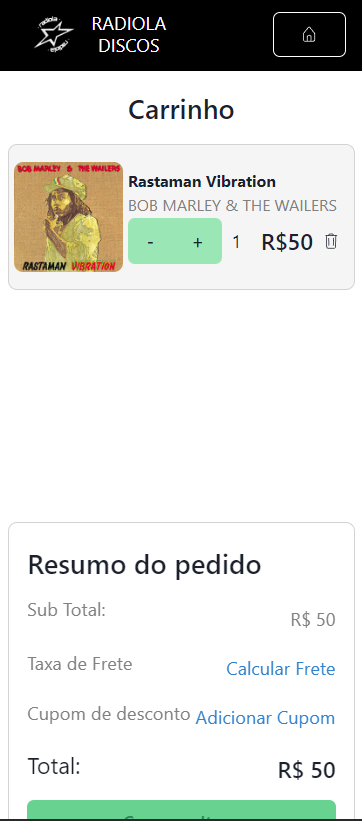
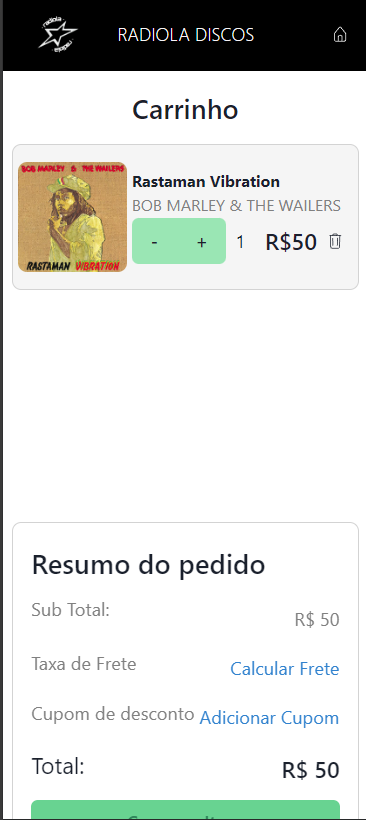
refactor: readme

diff --git a/src/Components/Header/HeaderLg.jsx b/src/Components/Header/HeaderLg.jsx
@@ -58,17 +58,19 @@ function Header({ setGender, setArtist }) {
         display={"flex"}
         flexDir={"row"}
         alignItems={"center"}
-        width={"16rem"}
+        // width={"14rem"}
+        // border={"solid red 1px"}
       >
         <Image width={"65px"} height={"65px"} alt="logo" src={imagemLogo} />
         <Text
           fontSize="1xl"
           textAlign={"center"}
-          width={"100%"}
+          // width={"100%"}
           fontFamily={"inherit"}
-          fontWeight={400}
+          fontWeight={300}
           lineHeight={"1.25rem"}
           textTransform={"uppercase"}
+          width={"14rem"}
         >
           Radiola Discos
         </Text>
@@ -309,7 +311,7 @@ function Header({ setGender, setArtist }) {
             variant={"solid"}
             color={"white"}
             bg={"black"}
-            border={"solid white 1px"}
+            // border={"solid white 1px"}
             _hover={{
               color: "lightgrey",
               border: "solid grey 1px",
